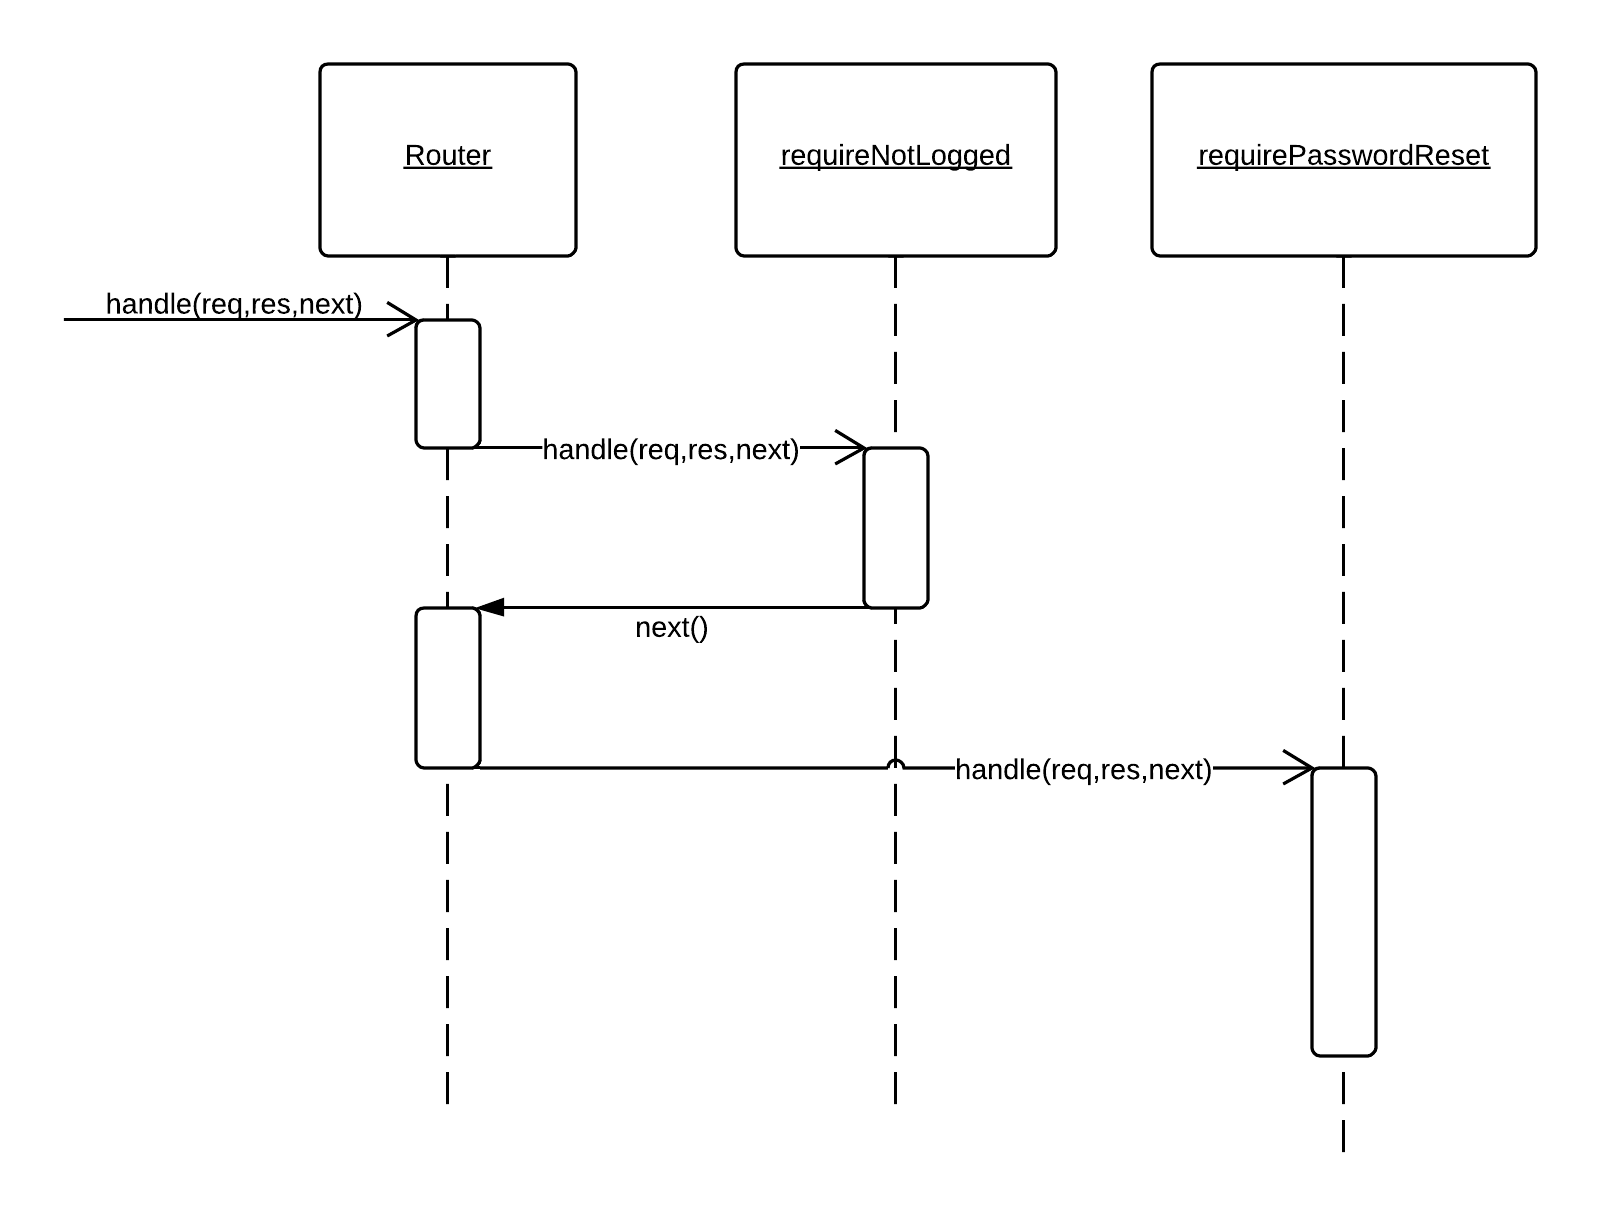
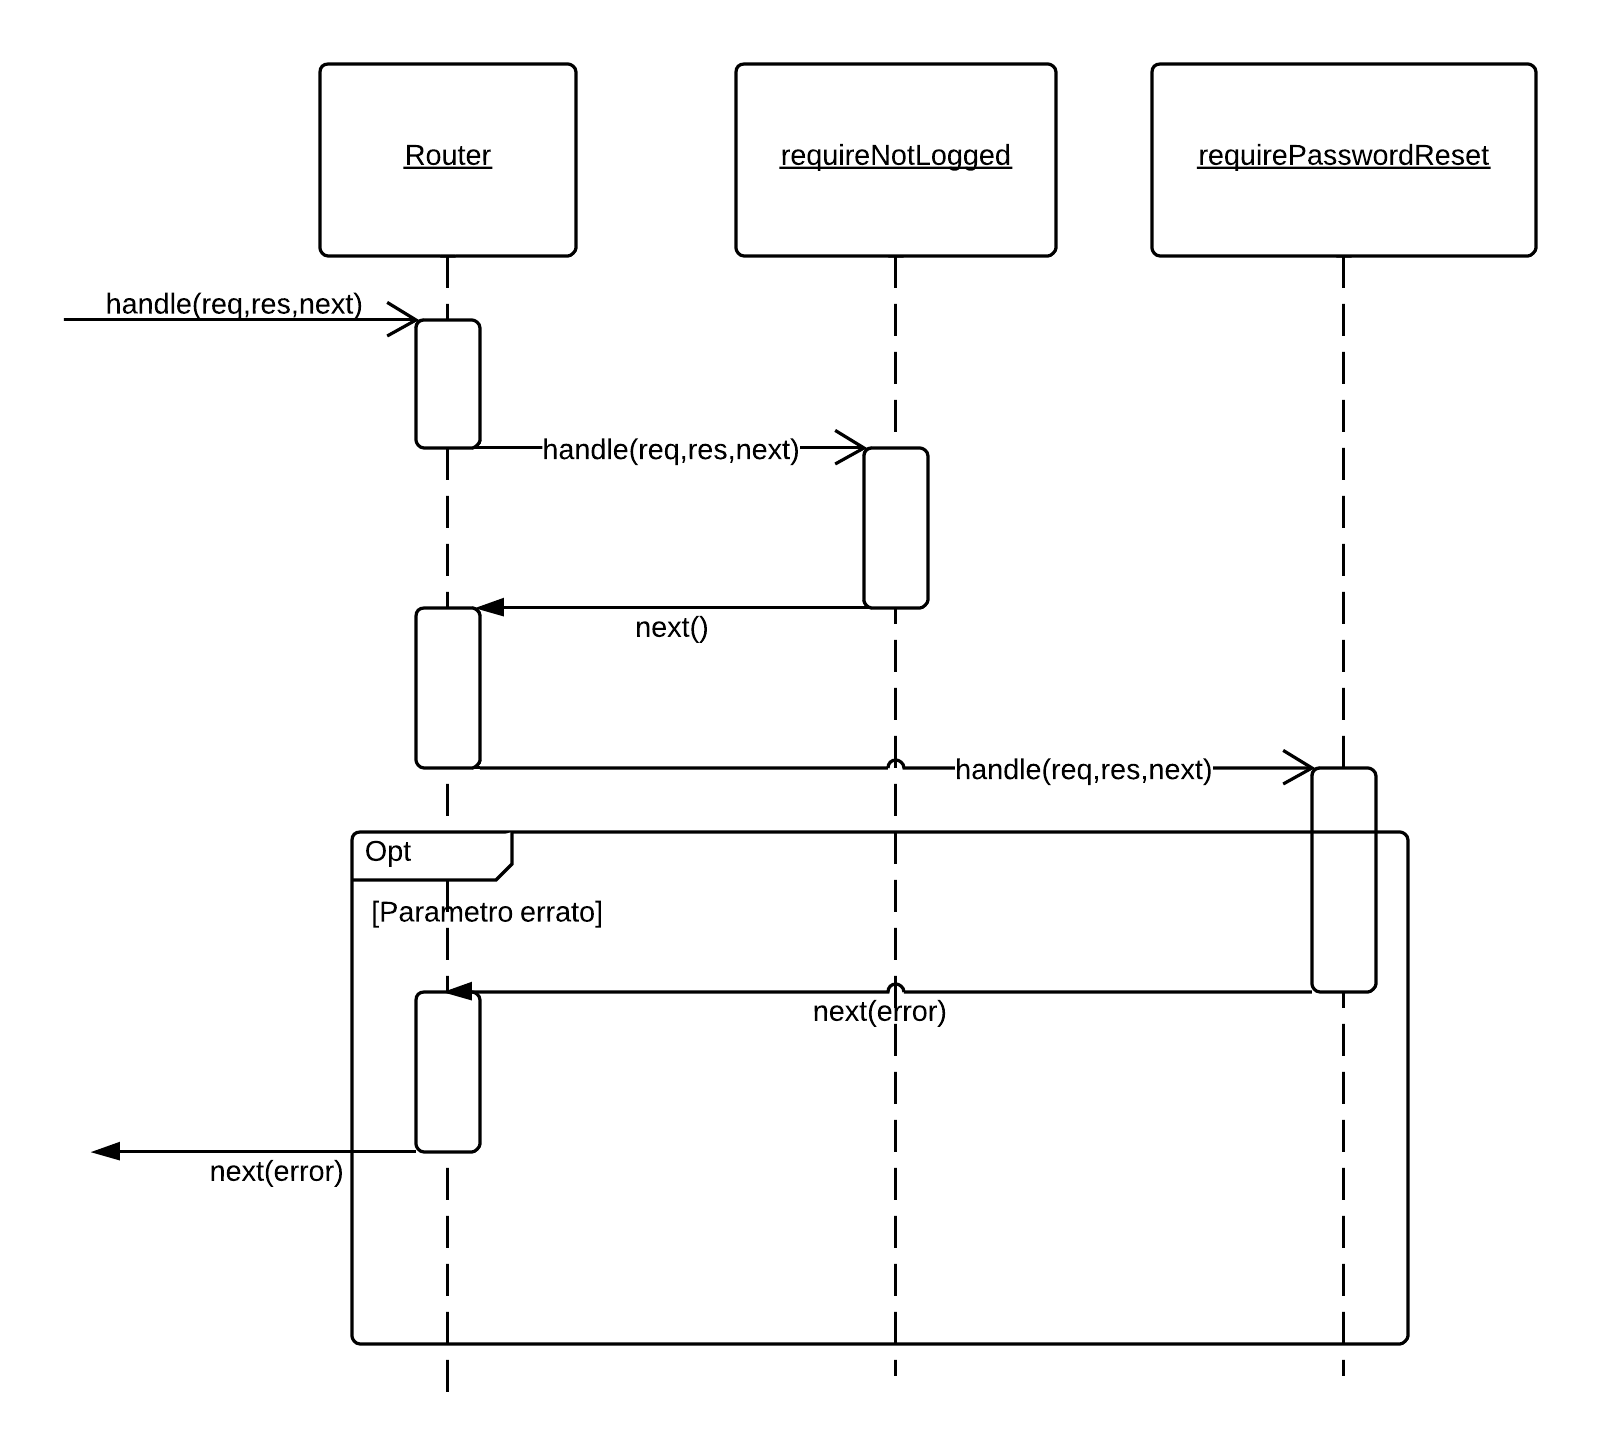
Sistemata sezione Scenari in Specifica Tecnica

diff --git a/documenti/SpecificaTecnica/capitolo-back-end.tex b/documenti/SpecificaTecnica/capitolo-back-end.tex
@@ -104,8 +104,8 @@ I tipi di permessi possibili sono:
 \begin{figure}[H]
 \centering
 %TODO \includegraphics[width=\textwidth]{uml/Back-end-Diagramma dei Packages.png}
-\caption{Diagramma delle classi del Front-end}
-\label{diagrammaClassiFrontEnd}
+\caption{Diagramma delle classi del Back-end}
+\label{diagrammaClassiBackEnd}
 \end{figure}
 
 \subsection{Diagramma delle classi}
@@ -113,8 +113,8 @@ I tipi di permessi possibili sono:
 \begin{figure}[H]
 \centering
 %TODO \includegraphics[width=\textwidth]{uml/Back-end-Diagramma delle classi.png}
-\caption{Diagramma delle classi del Front-end}
-\label{diagrammaClassiFrontEnd}
+\caption{Diagramma delle classi del Back-end}
+\label{diagrammaClassiBackEnd}
 \end{figure}
 
 %\import{back-end-packages} Contiene "Descrizione componenti Back-end"
@@ -226,6 +226,7 @@ Il seguente diagramma rappresenta lo scenario di una richiesta GET per ottenere 
 
 \subsubsection{Profile PUT} 
 Viene rappresentato lo scenario di una richiesta PUT per la risorsa Profile, il \emph{requireLogged} non ritorna un errore, chiamando il successivo \glossario{middleware} \emph{editProfile} che gestisce la richiesta di modifica dei dati del profilo.
+Nell'opzione che i paramentri passati per la modifica del profilo siano errati, \emph{editProfile} chiamarà la callback passandogli la descrizione dell'errore come parametro che il router andrà a gestire.
 \begin{figure}[H]
 	\begin{center} 
 		\includegraphics[scale=0.20]{scenari/Profile PUT.png} 
@@ -235,6 +236,7 @@ Viene rappresentato lo scenario di una richiesta PUT per la risorsa Profile, il 
 
 \subsubsection{Password Forgot POST} 
 Viene rappresentato lo scenario di una richiesta POST per la risorsa password forgot, il \emph{requireNotLogged} non risponde errore e il controllo passa a \emph{requirePasswordReset} che gestisce la richiesta.
+Se i parametri passati per la richiesta sono errati, il controllore \emph{requireNotLogged} risponderà con un errore.
 \begin{figure}[H]
 	\begin{center} 
 		\includegraphics[scale=0.20]{scenari/Password Forgot POST.png} 
@@ -252,7 +254,7 @@ Viene rappresentato nel seguente diagramma di sequenza lo scenario di una richie
 \end{figure}
 
 \subsubsection{Users POST} 
-Il seguente diagramma di sequenza rappresenta lo scenario di una richiesta POST per la risorsa user, la verifica di \emph{requireLogged} dei permessi utente non fallisce e viene passato il controllo a \emph{createUser} che gestisce la richiesta di creazione di un nuovo user.
+Il seguente diagramma di sequenza rappresenta lo scenario di una richiesta POST per la risorsa user, la verifica di \emph{requireLogged} dei permessi utente non fallisce e viene passato il controllo a \emph{createUser} che gestisce la richiesta di creazione di un nuovo user, e nel caso la verifica dei paramentri passati per la creazione di quest'ultimo siano errati, il controllore chiamerà la callback con l'errore.
 \begin{figure}[H]
 	\begin{center} 
 		\includegraphics[scale=0.20]{scenari/Users POST.png} 
@@ -262,6 +264,7 @@ Il seguente diagramma di sequenza rappresenta lo scenario di una richiesta POST 
 
 \subsubsection{Users Id GET} 
 Lo scenario rappresenta una richiesta GET di una risorsa User id, vengono verificati i permessi attraverso \emph{requireAdmin} che passa il controllo a \emph{getUser} dandogli come attributo l'id dell'user da restituire.
+Nell'opzione che l'id dell'user sia errato, non corrispondendo a nessun user esistente, verrà richiamata una next(error).
 \begin{figure}[H]
 	\begin{center} 
 		\includegraphics[scale=0.20]{scenari/Users Id GET.png} 
@@ -271,7 +274,7 @@ Lo scenario rappresenta una richiesta GET di una risorsa User id, vengono verifi
 
 \subsubsection{Users Id PUT} 
 Nel seguente diagramma di sequenza viene rappresentato lo scenario di una richiesta PUT per la risorsa User id nel quale \emph{requireAdmin} non restituisce un errore e passa il controllo a \emph{editUser} che gestisce la richiesta di modifica dati dell'user corrispondente all'userId che gli è stato passato come attributo.
-\emph{EditUser} verifica inoltre che l'userId passatogli come attributo non corrisponda all'id dello stesso user che ha effettuato la richiesta o corrisponda ad un id di un superAdmin, altrimenti risponderà con un errore.
+\emph{EditUser} verifica inoltre che l'userId passatogli come attributo non corrisponda all'id dello stesso user che ha effettuato la richiesta o corrisponda ad un id di un superAdmin e controlla che i parametri passati non siano errati, altrimenti risponderà con errore.
 \begin{figure}[H]
 	\begin{center} 
 		\includegraphics[scale=0.20]{scenari/Users Id PUT.png} 
@@ -281,7 +284,7 @@ Nel seguente diagramma di sequenza viene rappresentato lo scenario di una richie
 
 \subsubsection{Users Id DELETE} 
 Il diagramma di sequenza rappresenta lo scenario di una richiesta DELETE per la risorsa user id, \emph{requireAdmin} non restituisce un errore e la richiesta viene gestita da \emph{deleteUser} per procede con l'eliminazione dell'user cui id gli è stato passato come attributo.
-Nell'opzione che l'id passatogli corrisponda all'id dell'utente che ha effettuato la richiesta o ad un id di un superAdmin, \emph{deleteUser} restituisce un next(error).
+Nell'opzione che l'id passatogli corrisponda all'id dell'utente che ha effettuato la richiesta o ad un id di un superAdmin, \emph{deleteUser} restituisce un next(error). Il controller si preoccupa inoltre di verificare che i parametri siano corretti.
 \begin{figure}[H]
 	\begin{center} 
 		\includegraphics[scale=0.20]{scenari/Users Id DELETE.png} 
@@ -299,7 +302,9 @@ Il diagramma seguente rappresenta lo scenario di una richiesta GET per la risors
 \end{figure}
 
 \subsubsection{Collection Name GET} 
-Il diagramma seguente rappresenta lo scenario di una richiesta GET per la risorsa collection Name, il controller \emph{requireLogged} innescherà la chiamata del successivo controller \emph{indexPage} al quale verrà passato come parametro l'id della \glossario{Collection} per la restituzione dell'index page corrispondente.
+Il diagramma seguente rappresenta lo scenario di una richiesta GET per la risorsa collection Name, il controller \emph{requireLogged} innescherà la chiamata del successivo controller \emph{indexPage} al quale verrà passato come parametro l'id della \glossario{Collection} per la restituzione dell'index page corrispondente. \\ 
+Nell'opzione che l'id sia errato il controller chiamerà la callback passandogli la descrizione dell'errore come parametro.
+
 \begin{figure}[H]
 	\begin{center} 
 		\includegraphics[scale=0.20]{scenari/Collection Name GET.png} 
@@ -309,6 +314,7 @@ Il diagramma seguente rappresenta lo scenario di una richiesta GET per la risors
 
 \subsubsection{Collection Name Document GET} 
 Il diagramma di sequenza rappresenta lo scenario di una richiesta GET per la risorsa collection name document, nel quale al controller \emph{showpage} viene passato l'id del document di cui mostrare la show page.
+Nell'opzione l'id sia errato, non corrispondendo ad un \glossario{Document} valido, \emph{showpage} restituisce una next(error).
 \begin{figure}[H]
 	\begin{center} 
 		\includegraphics[scale=0.20]{scenari/Collection Name Document GET.png} 
@@ -318,6 +324,7 @@ Il diagramma di sequenza rappresenta lo scenario di una richiesta GET per la ris
 
 \subsubsection{Collection Name Document PUT}
 Il seguente diagramma rappresenta lo scenario di una richiesta POST su una risorsa collection name document, il controller \emph{requireAdmin} non risponde con errore e viene passato il controllo a \emph{editDocument} che gestirà la richiesta.
+Nell'opzione che i parametri passati per la modifica del \glossario{Document} siano errati, il controller chiamerà la callback passandole l'errore che il router dovrà gestire.
 \begin{figure}[H]
 	\begin{center} 
 		\includegraphics[scale=0.20]{scenari/Collection Name Document PUT.png} 
@@ -326,7 +333,7 @@ Il seguente diagramma rappresenta lo scenario di una richiesta POST su una risor
 \end{figure}
 
 \subsubsection{Collection Name Document DELETE}
-Il seguente scenario rappresenta la richiesta DELETE per una risorsa Collection name document, dopo che i permessi sono stati verificati il controllo è passato a \emph{deleteDocument} il quale gestirà la richiesta di eliminazione del document il cui id gli è stato passato come parametro.
+Il seguente scenario rappresenta la richiesta DELETE per una risorsa Collection name document, dopo che i permessi sono stati verificati il controllo è passato a \emph{deleteDocument} il quale gestirà la richiesta di eliminazione del document il cui id gli è stato passato come parametro. Se l'id è errato, verrà restituito un errore.
 \begin{figure}[H]
 	\begin{center} 
 		\includegraphics[scale=0.20]{scenari/Collection Name Document DELETE.png} 
@@ -336,7 +343,7 @@ Il seguente scenario rappresenta la richiesta DELETE per una risorsa Collection 
 
 \subsubsection{Action Name Collection PUT} 
 Il seguente diagramma di sequenza descrive lo scenario di una richiesta PUT per una risorsa Action name Collection.
-Il controller \emph{collectionAction} si occupa di eseguire i controlli sugli attributi passatogli corrispondenti all'azione da eseguire e alla \glossario{Collection} sulla quale tale azione deve essere gestita.
+Il controller \emph{collectionAction} si occupa di eseguire i controlli sugli attributi passatogli corrispondenti all'azione da eseguire e alla \glossario{Collection} sulla quale tale azione deve essere gestita, in caso siano errati chiamerà una next(error).
 \begin{figure}[H]
 	\begin{center} 
 		\includegraphics[scale=0.20]{scenari/Action Name Collection PUT.png} 
@@ -347,6 +354,7 @@ Il controller \emph{collectionAction} si occupa di eseguire i controlli sugli at
 \subsubsection{Action Name Collection Document PUT}
 Il diagramma a seguito mostrato descrive lo scenario di una richiesta PUT per la risorsa Action name Document.
 Il controller \emph{documentAction} gestirà la richiesta di azione sul document corrispondente all'id passatogli come parametro.
+Nell'opzione i parametri siano errati, \emph{documentAction} chiamarà la callback passandogli la descrizione dell'errore come parametro.
 \begin{figure}[H]
 	\begin{center} 
 		\includegraphics[scale=0.20]{scenari/Action Name Collection Document PUT.png} 

diff --git a/documenti/SpecificaTecnica/SpecificaTecnica.tex b/documenti/SpecificaTecnica/SpecificaTecnica.tex
@@ -22,6 +22,7 @@
 \include{capitolo-definizione-architettura}
 \include{capitolo-back-end}
 \include{capitolo-front-end}
+\include{capitolo-descrizione}
 \include{capitolo-diagrammi-di-attivita}
 \include{capitolo-stime}
 \include{capitolo-pattern}
